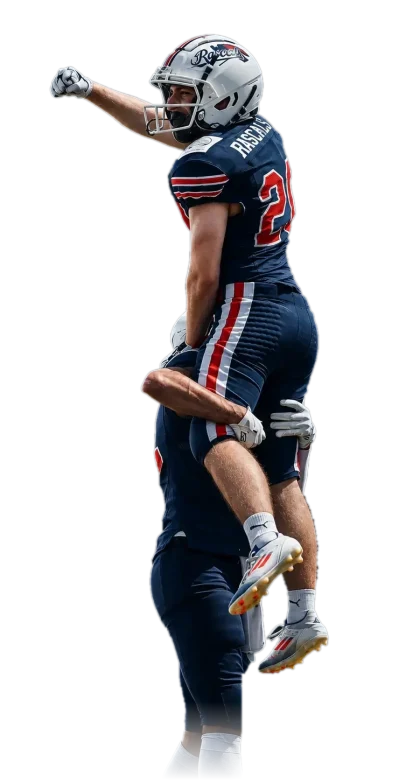
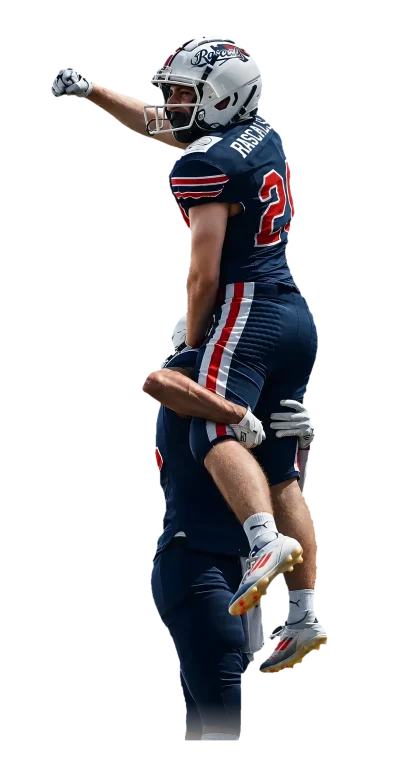
Teamshop: Spieler ohne hellen Rand, Helm mobil weiter rechts, "Alle Produkte"
- Freigestellter Spieler: heller Saum an den Schnittkanten entfernt (Alpha
  um 3 px eingezogen, Randfarbe von innen nachgezogen) und den hellen
  Randlicht-Schatten im CSS gestrichen; alle drei Bildgroessen neu.
- Handy: Helm im Hero ein Stueck weiter nach rechts.
- Hero-Button heisst jetzt "ALLE PRODUKTE" (Link bleibt /collections/all).

Claude-Session: https://claude.ai/code/session_01VkdeDPYWPcbrmHGSxU5d2N

diff --git a/shopify-theme/rascals-teamshop/assets/teamshop.css b/shopify-theme/rascals-teamshop/assets/teamshop.css
@@ -1154,7 +1154,7 @@ body:hover .football-cursor { opacity: .85; }
    dunklen Fotohintergrund als "Schatten" ins Stadion), nur Randlicht. */
 .hero-stage__figure--cut {
   -webkit-mask-image: none; mask-image: none;
-  filter: drop-shadow(-2px 0 0 rgba(190, 210, 255, .22)) drop-shadow(0 18px 28px rgba(0, 0, 0, .55)) brightness(.96) contrast(1.06);
+  filter: drop-shadow(0 18px 28px rgba(0, 0, 0, .55)) brightness(.96) contrast(1.06);
 }
 /* Schlagzeile hebt sich vom dunkleren Zentrum ab. */
 .hero-stage__title { filter: drop-shadow(0 4px 0 rgba(0, 0, 0, .35)) drop-shadow(0 14px 26px rgba(0, 0, 0, .55)) drop-shadow(0 0 40px rgba(0, 0, 0, .5)); }
@@ -1187,7 +1187,7 @@ body:hover .football-cursor { opacity: .85; }
   .hero-stage__content { padding-top: calc(var(--m-stage) * .78); padding-bottom: 1.2rem; }
   .hero-stage__backdrop { object-position: center 20%; transform: scale(1.15); transform-origin: 50% 30%; filter: brightness(.66) saturate(.9) contrast(1.15) blur(1px); }
   .hero-stage__layers::before { background: linear-gradient(180deg, rgba(3, 7, 15, .5) 0%, rgba(3, 7, 15, 0) 22%, rgba(3, 7, 15, 0) 40%, rgba(3, 8, 16, .7) 62%, rgba(3, 8, 16, .9) 100%); }
-  .hero-stage__stage { top: calc(var(--home-header-h) - 4px); right: -16%; bottom: auto; width: 108%; opacity: 1; }
+  .hero-stage__stage { top: calc(var(--home-header-h) - 4px); right: -27%; bottom: auto; width: 108%; opacity: 1; }
   .hero-stage__stage::after { background: linear-gradient(0deg, rgba(4, 8, 16, .8) 0%, rgba(4, 8, 16, 0) 30%); }
   .hero-stage__figure, .hero-stage__figure--cut { display: block; z-index: 4; top: calc(var(--home-header-h) + 4px); bottom: auto; left: -3%; height: calc(var(--m-stage) * .9); opacity: 1; transform: none; }
   .hero-stage__scrim { background: linear-gradient(180deg, rgba(4, 9, 17, 0) 0%, rgba(4, 9, 17, 0) calc(var(--home-header-h) + var(--m-stage) * .5), rgba(4, 9, 17, .78) calc(var(--home-header-h) + var(--m-stage) * .86), rgba(4, 9, 17, .92) 100%); }
